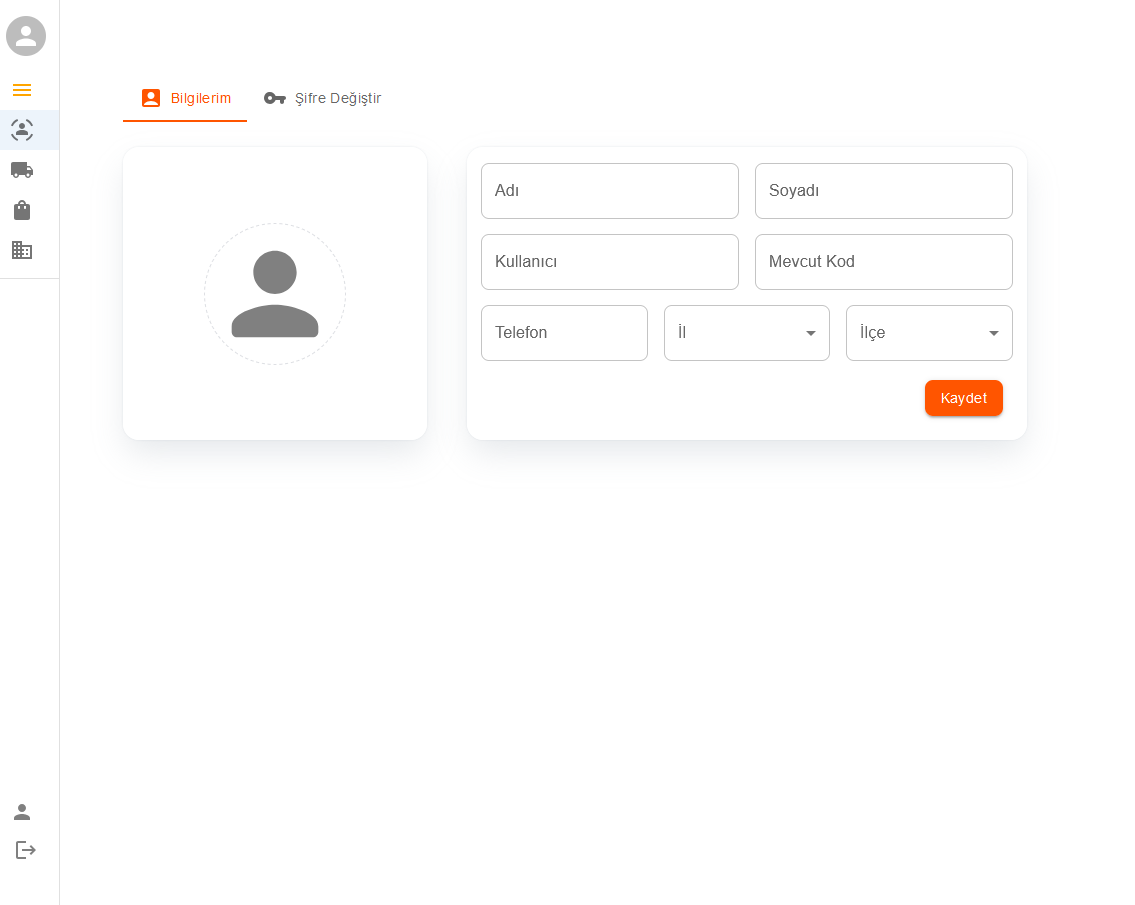
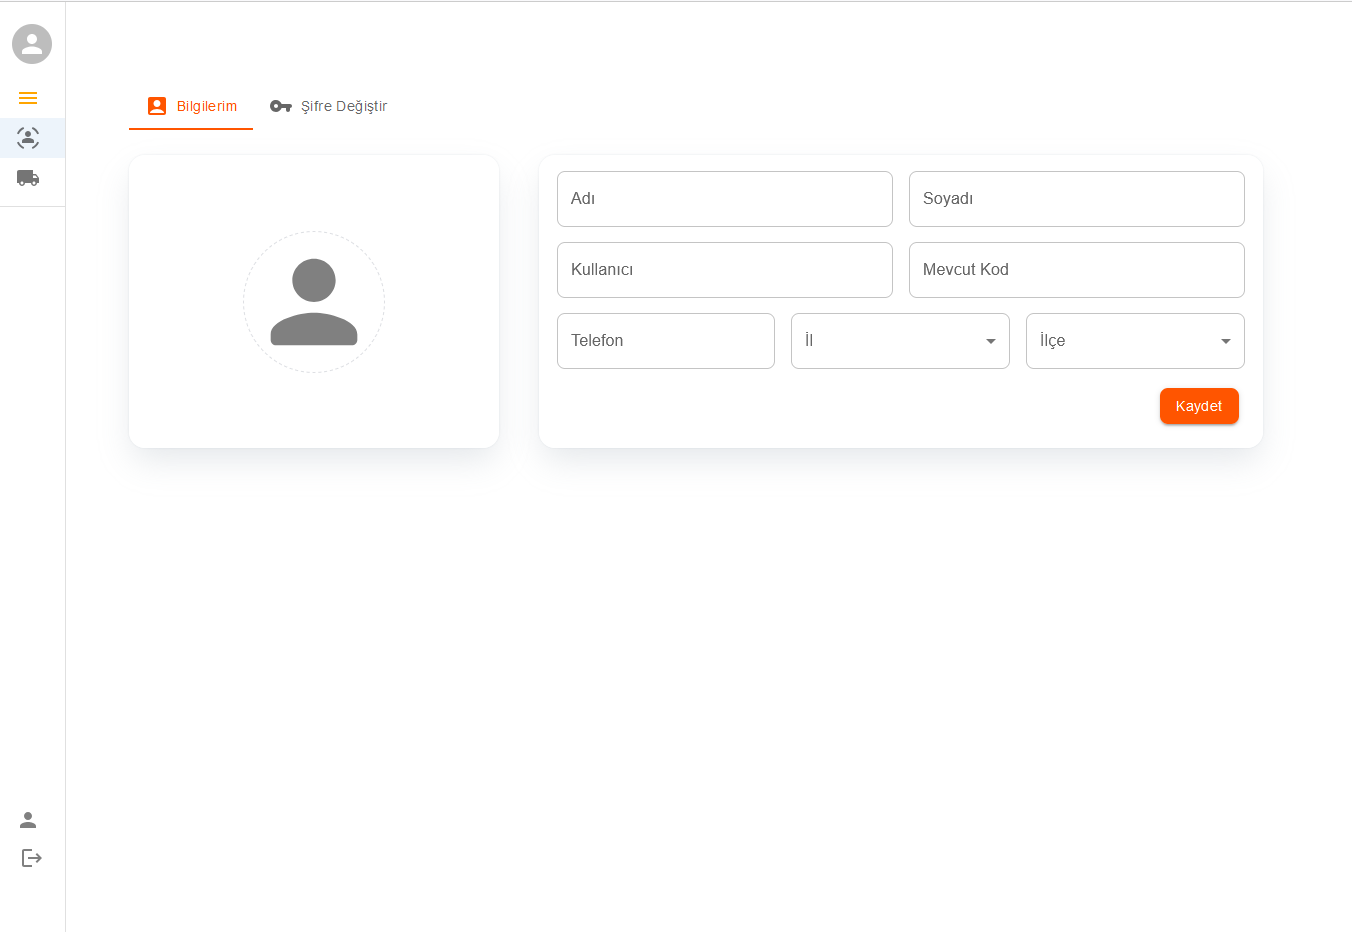
Edited navbar

diff --git a/src/screens/vehiclePage/VehiclePages.tsx b/src/screens/vehiclePage/VehiclePages.tsx
@@ -7,8 +7,8 @@ interface VehiclePageProps {
 }
 
 const mockData = [
-  { id: 1, vehicleType: 'ÇEKİCİ', plateNumber: '22M121', brand: 'BRAND 1', model: 'MODEL 1', status: 'Boş/Hazır', ownership: 'Özmal' },
-  { id: 2, vehicleType: 'ÇEKİCİ', plateNumber: '22M222', brand: 'BRAND 2', model: 'MODEL 2', status: 'Boş/Hazır', ownership: 'Yabancı' },
+  { id: 1, vehicleType: 'Type1', plateNumber: '22M121', brand: 'BRAND 1', model: 'MODEL 1', status: 'Boş/Hazır', ownership: 'Özmal' },
+  { id: 2, vehicleType: 'Type2', plateNumber: '22M222', brand: 'BRAND 2', model: 'MODEL 2', status: 'Boş/Hazır', ownership: 'Yabancı' },
 ];
 
 const TABLE_HEAD = [

diff --git a/src/screens/MiniNavBar.tsx b/src/screens/MiniNavBar.tsx
@@ -169,7 +169,7 @@ export default function MiniNavBar() {
             </ListItemButton>
           </ListItem>
 
-          {['Müşteriler', 'Araçlar', 'Siparişler', 'Firmalar'].map((text, index) => (
+          {['Müşteriler', 'Araçlar'].map((text, index) => (
             <ListItem key={text} disablePadding >
               <ListItemButton
                 selected={selectedIndex === index}
@@ -205,7 +205,7 @@ export default function MiniNavBar() {
 
         <Divider />
 
-        <Box sx={{ pt: 65, }}>
+        <Box sx={{ pt: 75, }}>
 
           {open && (
             <Box>
